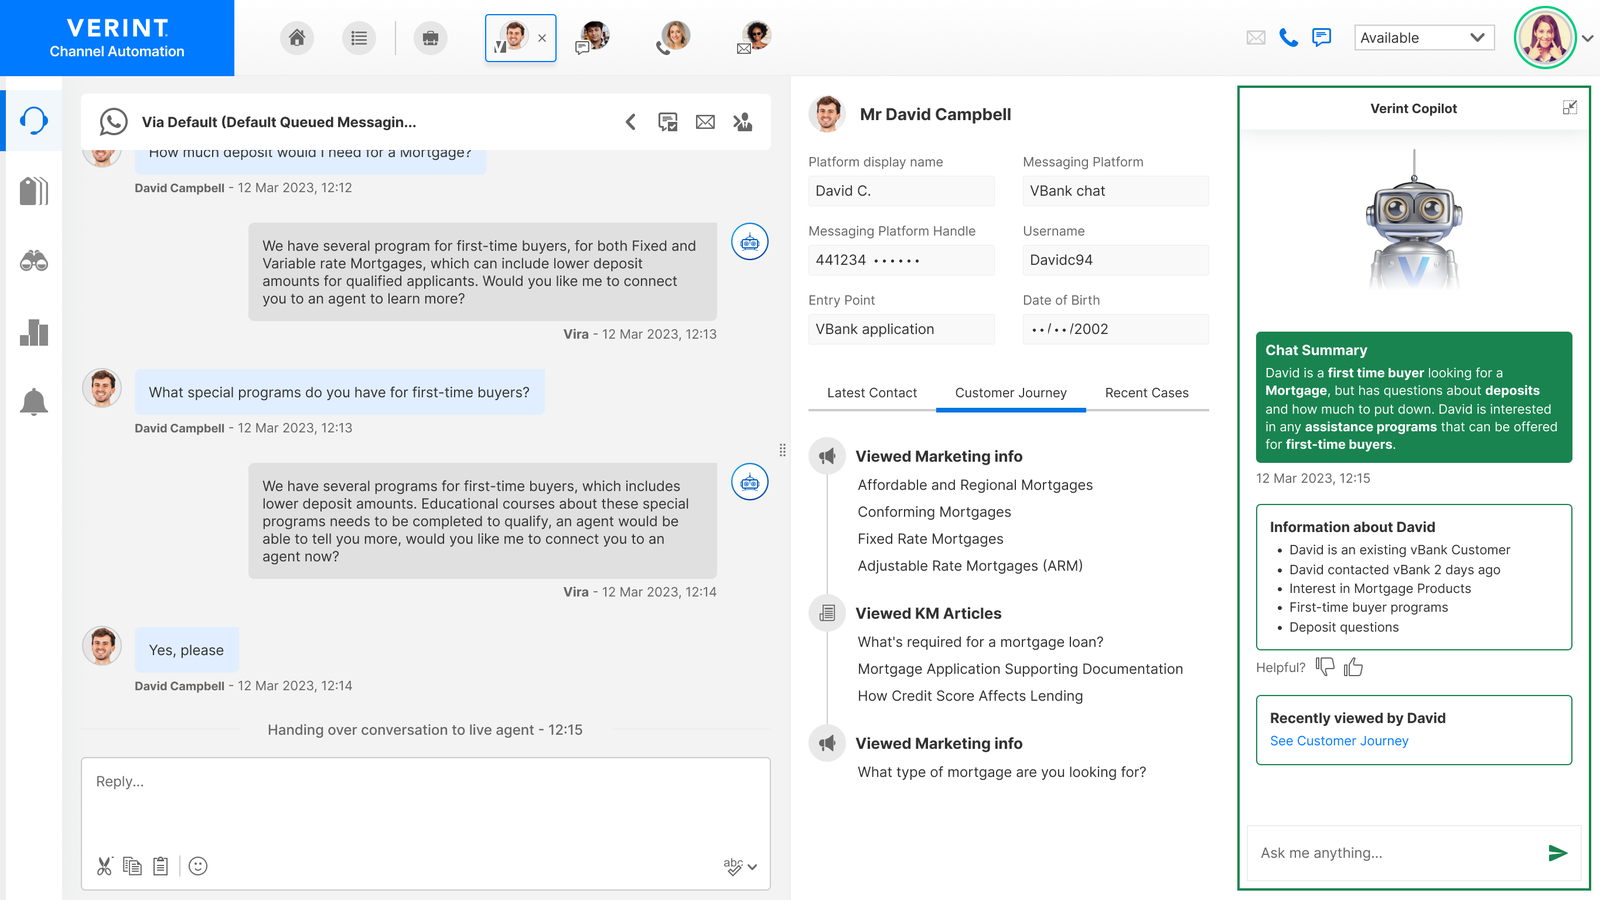
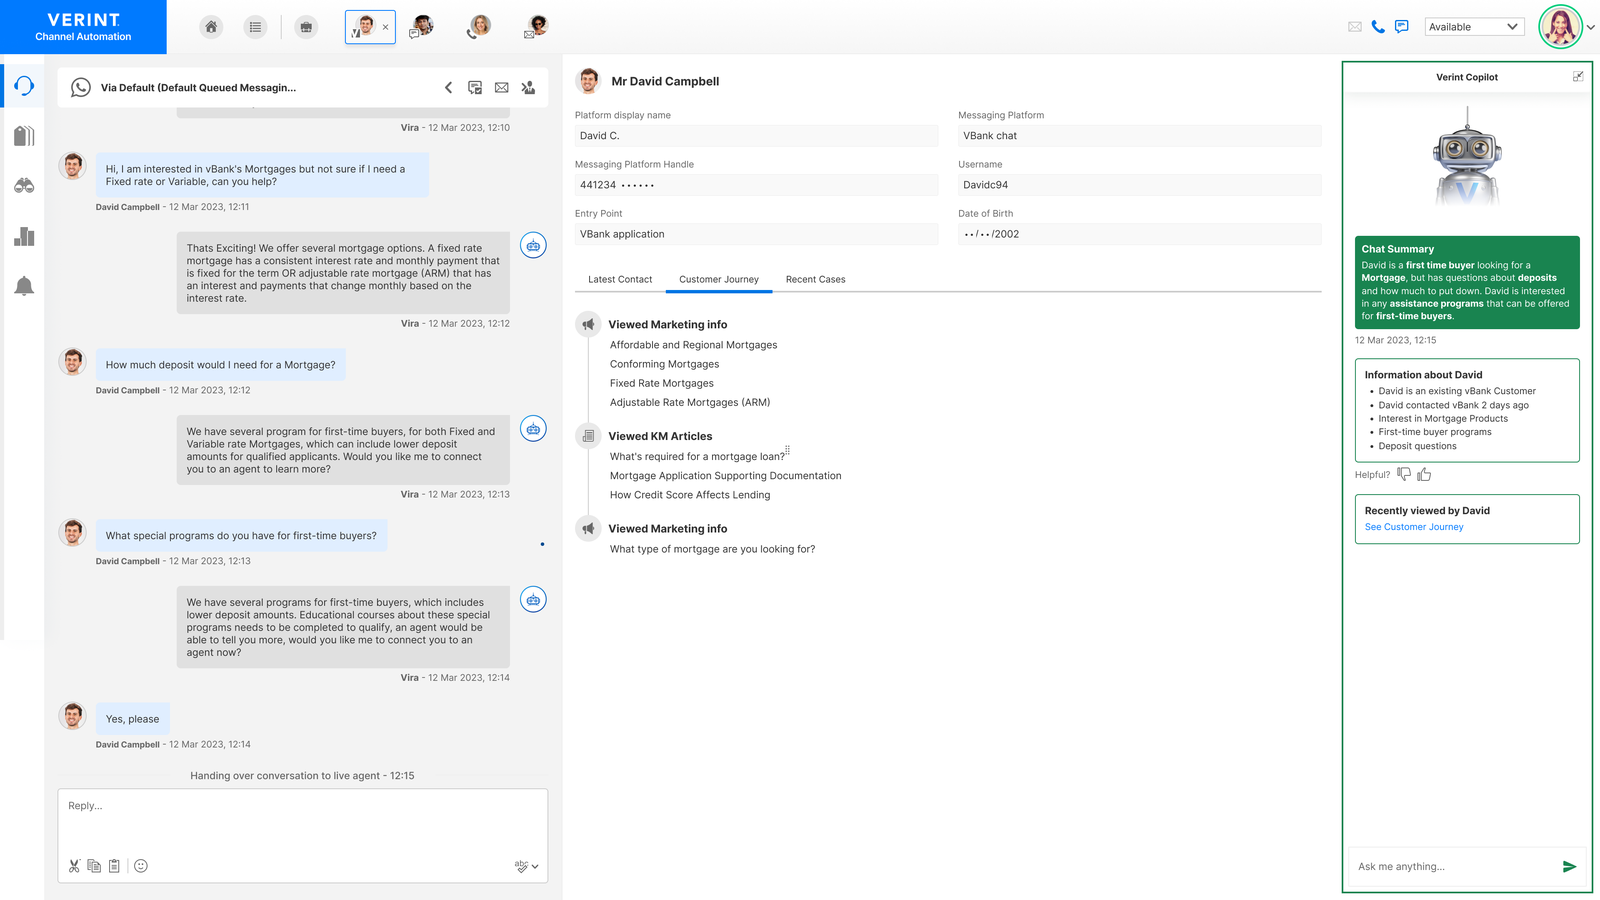
Copilot: Hackathon and Shipped at one scale, 2400px sources, full screen view
Ori re-exported the hackathon screen at the shipped screen's size (3840 vs
3864 wide), so both halves now render the UI at the same scale; before, the
shipped frame was 1932 wide against 1366 and everything on it read ~30%
smaller. Both masked again: handle and date of birth on Hackathon; account
number, phone and the test note under the name on Shipped.

Sources are 16:9 at 1600 and 2400 wide, WebP q82 with a srcset, plus PNG
fallbacks. A retina desktop takes 2400, a phone or 1x laptop 1600.

Full screen: a button in the label row opens the comparison in a native
<dialog> via showModal(). Not a fixed overlay, because the figure sits in a
.cs-reveal section whose transform would trap position:fixed. The .cmp node
is moved into the dialog and back, so there is one copy and the seam keeps
its position. Esc, the close button and a backdrop click all close it;
focus goes to the range on open and back to the button on close; page
scroll is locked while open. The frame is sized by viewport height as well
as width so 16:9 fits whole on a short laptop screen.

Tested at 1440@2x, 1280@1x and 390@3x.

Claude-Session: https://claude.ai/code/session_01UR5wgWCykGrjr29FfUPuRZ

diff --git a/cases/copilot/index.html b/cases/copilot/index.html
@@ -41,8 +41,8 @@
   }
 }
 </script>
-<link rel="stylesheet" href="../../src/tokens.css?v=202609301118"/>
-<link rel="stylesheet" href="../shared/case-study.css?v=202609301118"/>
+<link rel="stylesheet" href="../../src/tokens.css?v=202609301135"/>
+<link rel="stylesheet" href="../shared/case-study.css?v=202609301135"/>
 <script>try{if(localStorage.getItem('ori-theme')==='dark')document.documentElement.setAttribute('data-theme','dark')}catch(e){}
 if(window.self!==window.top){var _s=document.createElement('style');_s.textContent='*{cursor:none!important}';document.head.appendChild(_s);}</script>
 <style>
@@ -68,7 +68,7 @@ if(window.self!==window.top){var _s=document.createElement('style');_s.textConte
 /* ── Hackathon vs shipped seam ────────────────────────────────────────────
    Labels sit in a row above the frame. The stage gets the room; the shared
    .cmp-label keeps its look, only its anchor changes. */
-.cmp-wrapup{--cmp-ar:16/9}  /* both exports cut to 1600x900 */
+.cmp-wrapup{--cmp-ar:16/9}  /* both exports cut to 16:9, 1600 and 2400 wide */
 .cmp-wrapup .cmp-stage{padding-top:30px}
 .cmp-wrapup .cmp-label{top:0}
 .cmp-wrapup .cmp-label-a{left:0}
@@ -77,6 +77,33 @@ if(window.self!==window.top){var _s=document.createElement('style');_s.textConte
    label is 10px uppercase with tracking; sentence case needs neither the
    tracking nor the small size to read as a label. */
 .cmp-wrapup .cmp-label{text-transform:none;letter-spacing:0;font-size:12px;font-weight:700}
+/* Full screen button, centred in the label row so it names neither side. */
+.cmp-expand{position:absolute;top:0;left:50%;transform:translateX(-50%);z-index:2;
+  display:inline-flex;align-items:center;gap:6px;padding:4px 11px;
+  border-radius:var(--radius-full);border:1px solid var(--border-default);
+  background:var(--surface-default);color:var(--text-primary);
+  font-family:inherit;font-size:12px;font-weight:600;line-height:1.3;cursor:pointer}
+.cmp-expand:hover{background:var(--surface-raised)}
+.cmp-expand:focus-visible{outline:3px solid var(--action-primary);outline-offset:2px}
+
+/* The dialog. Sized by the viewport's height as well as its width, so the
+   16:9 frame fits whole on a wide short laptop screen, not just a tall one. */
+.cmp-dlg{border:0;margin:0;padding:64px 24px 24px;background:transparent;
+  width:100vw;height:100vh;height:100dvh;max-width:none;max-height:none;overflow:hidden}
+.cmp-dlg[open]{display:flex;align-items:center;justify-content:center}
+.cmp-dlg::backdrop{background:rgba(10,11,13,.97)}
+html:has(.cmp-dlg[open]){overflow:hidden}
+.cmp-dlg .cmp{width:min(100%, calc((100dvh - 118px) * 16 / 9));margin:0}
+.cmp-dlg .cmp-expand{display:none}
+/* Fixed chrome on a fixed dark backdrop, so fixed colours in both themes. */
+.cmp-dlg .cmp-label{background:#fff;color:#121213}
+.cmp-dlg .cmp-frame{box-shadow:none}
+.cmp-dlg-x{position:fixed;top:14px;right:16px;width:44px;height:44px;border-radius:50%;
+  display:flex;align-items:center;justify-content:center;cursor:pointer;
+  border:1px solid rgba(255,255,255,.4);background:rgba(255,255,255,.12);color:#fff}
+.cmp-dlg-x:hover{background:rgba(255,255,255,.22)}
+.cmp-dlg-x:focus-visible{outline:3px solid #fff;outline-offset:2px}
+@media(max-width:720px){.cmp-dlg{padding:64px 12px 16px}}
 
 /* Inside a section the figure's own 26px is the gap; the seam's 22px on top
    of it would make this the one figure on the page set further off its text. */
@@ -492,11 +519,16 @@ if(window.self!==window.top){var _s=document.createElement('style');_s.textConte
                  UI in every corner, so an on-image label always covers something. -->
             <span class="cmp-label cmp-label-a">Hackathon</span>
             <span class="cmp-label cmp-label-b">Shipped</span>
+            <button type="button" class="cmp-expand" aria-expanded="false" aria-controls="cmp-dlg">
+              <svg viewBox="0 0 24 24" width="13" height="13" fill="none" stroke="currentColor" stroke-width="2.2" stroke-linecap="round" stroke-linejoin="round" aria-hidden="true"><path d="M15 3h6v6M9 21H3v-6M21 3l-7 7M3 21l7-7"/></svg>
+              Full screen
+            </button>
             <div class="cmp-frame">
               <!-- base layer: SHIPPED, full width, sits behind -->
               <div class="cmp-side">
                 <picture>
-                  <source srcset="images/copilot-shipped.webp" type="image/webp"/>
+                  <source type="image/webp" sizes="(max-width:720px) 100vw, 1200px"
+                          srcset="images/copilot-shipped-1600.webp 1600w, images/copilot-shipped-2400.webp 2400w"/>
                   <img src="images/copilot-shipped.png" width="1600" height="900"
                        loading="lazy" decoding="async"
                        alt="Shipped design of the agent desktop: the chat on the left, the customer profile and interaction history in the middle, and the Copilot panel on the right answering the agent's questions in cards, each with sources, a helpful rating and a box to ask more."/>
@@ -505,7 +537,8 @@ if(window.self!==window.top){var _s=document.createElement('style');_s.textConte
               <!-- clipped layer: HACKATHON, occupies the left of the seam -->
               <div class="cmp-side cmp-clip">
                 <picture>
-                  <source srcset="images/copilot-hackathon.webp" type="image/webp"/>
+                  <source type="image/webp" sizes="(max-width:720px) 100vw, 1200px"
+                          srcset="images/copilot-hackathon-1600.webp 1600w, images/copilot-hackathon-2400.webp 2400w"/>
                   <img src="images/copilot-hackathon.png" width="1600" height="900"
                        loading="lazy" decoding="async"
                        alt="Hackathon design of the agent desktop: the chat on the left, customer details in the middle, and a Verint Copilot panel on the right with a robot mascot, a green chat summary card and a list of facts about the customer."/>
@@ -523,8 +556,20 @@ if(window.self!==window.top){var _s=document.createElement('style');_s.textConte
             </div>
           </div>
         </div>
-        <figcaption>From the hackathon to the shipped product. Drag across to see either in full.</figcaption>
+        <figcaption>From the hackathon to the shipped product. Drag across to see either in full, or open it full screen.</figcaption>
       </figure>
+      <!-- Full screen. A native dialog, not a fixed overlay: this sits inside a
+           .cs-reveal section, whose transform makes position:fixed resolve
+           against the section instead of the viewport. showModal() puts the
+           dialog in the top layer, which ignores that, and brings Esc, focus
+           containment and an inert page with it. The comparison itself is
+           moved in and back out, so there is one copy and its seam position
+           survives the round trip. -->
+      <dialog class="cmp-dlg" id="cmp-dlg" aria-label="Hackathon and Shipped, full screen">
+        <button type="button" class="cmp-dlg-x" aria-label="Close full screen">
+          <svg viewBox="0 0 24 24" width="18" height="18" fill="none" stroke="currentColor" stroke-width="2.4" stroke-linecap="round" aria-hidden="true"><path d="M6 6l12 12M18 6L6 18"/></svg>
+        </button>
+      </dialog>
     </div>
 
     <!-- Problem -->
@@ -758,7 +803,30 @@ if(window.self!==window.top){var _s=document.createElement('style');_s.textConte
   </svg>
 </button>
 
-<script src="../shared/case-study.js?v=202609301118" defer></script>
+<script src="../shared/case-study.js?v=202609301135" defer></script>
+<script>
+/* Hackathon and Shipped, full screen. Page-local: only this comparison has it. */
+(function(){
+  var cmp=document.getElementById('cmp-wrapup'), dlg=document.getElementById('cmp-dlg');
+  if(!cmp||!dlg) return;
+  var btn=cmp.querySelector('.cmp-expand');
+  if(typeof dlg.showModal!=='function'){ btn.hidden=true; return; }
+  var home=cmp.parentNode, next=cmp.nextSibling;
+  btn.addEventListener('click', function(){
+    dlg.appendChild(cmp); dlg.showModal();
+    btn.setAttribute('aria-expanded','true');
+    cmp.querySelector('.cmp-input').focus();
+  });
+  dlg.addEventListener('close', function(){
+    home.insertBefore(cmp, next);
+    btn.setAttribute('aria-expanded','false');
+    btn.focus();
+  });
+  dlg.querySelector('.cmp-dlg-x').addEventListener('click', function(){ dlg.close(); });
+  /* A click on the backdrop lands on the dialog itself; one inside it does not. */
+  dlg.addEventListener('click', function(e){ if(e.target===dlg) dlg.close(); });
+})();
+</script>
 <script>
 (function(){
   var stage = document.getElementById('cpStage'),

diff --git a/index.html b/index.html
@@ -417,7 +417,7 @@
     </div>
     <span class="wt">Verint Design System - Case Study</span>
   </div>
-  <iframe class="proj-iframe" allow="fullscreen" src="cases/lux/index.html?v=202609301118" title="Verint Design System 2.0 Case Study" loading="lazy"></iframe>
+  <iframe class="proj-iframe" allow="fullscreen" src="cases/lux/index.html?v=202609301135" title="Verint Design System 2.0 Case Study" loading="lazy"></iframe>
 </div>
 
 <!-- My Verint: case study -->
@@ -429,7 +429,7 @@
     </div>
     <span class="wt">My Verint - Case Study</span>
   </div>
-  <iframe class="proj-iframe" allow="fullscreen" src="cases/myverint/index.html?v=202609301118" title="My Verint Case Study" loading="lazy"></iframe>
+  <iframe class="proj-iframe" allow="fullscreen" src="cases/myverint/index.html?v=202609301135" title="My Verint Case Study" loading="lazy"></iframe>
 </div>
 
 <!-- Verint Copilot: case study -->
@@ -441,7 +441,7 @@
     </div>
     <span class="wt">Agent Copilot - Case Study</span>
   </div>
-  <iframe class="proj-iframe" allow="fullscreen" src="cases/copilot/index.html?v=202609301118" title="Agent Copilot Case Study" loading="lazy"></iframe>
+  <iframe class="proj-iframe" allow="fullscreen" src="cases/copilot/index.html?v=202609301135" title="Agent Copilot Case Study" loading="lazy"></iframe>
 </div>
 
 <!-- LUX Plugins: case study -->
@@ -453,7 +453,7 @@
     </div>
     <span class="wt">LUX Plugins - Case Study</span>
   </div>
-  <iframe class="proj-iframe" allow="fullscreen" src="cases/plugins/index.html?v=202609301118" title="LUX Plugins Case Study" loading="lazy"></iframe>
+  <iframe class="proj-iframe" allow="fullscreen" src="cases/plugins/index.html?v=202609301135" title="LUX Plugins Case Study" loading="lazy"></iframe>
 </div>
 
 <!-- Supervisor Hub: placeholder -->
@@ -832,7 +832,7 @@
     <span class="wt">Verint Design System - Component Viewer</span>
     <div class="wrc"></div>
   </div>
-  <iframe class="proj-iframe" allow="fullscreen" src="cases/lux/viewer.html?v=202609301118" title="Verint Design System Component Viewer" loading="lazy"></iframe>
+  <iframe class="proj-iframe" allow="fullscreen" src="cases/lux/viewer.html?v=202609301135" title="Verint Design System Component Viewer" loading="lazy"></iframe>
 </div>
 
 <!-- ══════════ APP SHELL ══════════ -->

diff --git a/cases/lux/index.html b/cases/lux/index.html
@@ -18,8 +18,8 @@
 <meta name="twitter:description" content="How Ori Cohen built Verint's enterprise design system from scratch — one language for 40+ products and 10k+ users."/>
 <meta name="twitter:image" content="https://oricohen.co/cases/lux/images/og-image.png"/>
 <meta name="author" content="Ori Cohen"/>
-<link rel="stylesheet" href="../../src/tokens.css?v=202609301118"/>
-<link rel="stylesheet" href="../shared/case-study.css?v=202609301118"/>
+<link rel="stylesheet" href="../../src/tokens.css?v=202609301135"/>
+<link rel="stylesheet" href="../shared/case-study.css?v=202609301135"/>
 <!-- Hide default cursor when embedded in the portfolio iframe -->
 <script>try{if(localStorage.getItem('ori-theme')==='dark')document.documentElement.setAttribute('data-theme','dark')}catch(e){}
 if(window.self!==window.top){var _s=document.createElement('style');_s.textContent='*{cursor:none!important}';document.head.appendChild(_s);}</script>
@@ -767,7 +767,7 @@ if(window.self!==window.top){var _s=document.createElement('style');_s.textConte
       <figure class="cs-media">
       <!-- The variables browser. Replaces the component-library screenshot:
            the same claim, but checkable. -->
-      <div class="vb-shell" data-dv="202609301118">
+      <div class="vb-shell" data-dv="202609301135">
         <div class="vb" id="vb" role="group"
              aria-label="LUX 2.0 variable library, browsable">
           <div class="vb-side">
@@ -999,7 +999,7 @@ if(window.self!==window.top){var _s=document.createElement('style');_s.textConte
   </svg>
 </button>
 
-<script src="../shared/case-study.js?v=202609301118" defer></script>
+<script src="../shared/case-study.js?v=202609301135" defer></script>
 <script>
 /* The seam itself is driven by cases/shared/case-study.js, which wires every
    .cmp on the page. What is left here is the token hotspots, which are

diff --git a/cases/myverint/index.html b/cases/myverint/index.html
@@ -18,8 +18,8 @@
 <meta name="author" content="Ori Cohen"/>
 <meta name="twitter:title" content="My Verint - Case Study - Ori Cohen"/>
 <meta name="twitter:description" content="How Ori Cohen redesigned My Verint - merging two disconnected mobile apps into a unified, AI-powered experience for 10,000+ contact center employees."/>
-<link rel="stylesheet" href="../../src/tokens.css?v=202609301118"/>
-<link rel="stylesheet" href="../shared/case-study.css?v=202609301118"/>
+<link rel="stylesheet" href="../../src/tokens.css?v=202609301135"/>
+<link rel="stylesheet" href="../shared/case-study.css?v=202609301135"/>
 <script>try{if(localStorage.getItem('ori-theme')==='dark')document.documentElement.setAttribute('data-theme','dark')}catch(e){}
 if(window.self!==window.top){var _s=document.createElement('style');_s.textContent='*{cursor:none!important}';document.head.appendChild(_s);}</script>
 <style>
@@ -537,7 +537,7 @@ if(window.self!==window.top){var _s=document.createElement('style');_s.textConte
   </svg>
 </button>
 
-<script src="../shared/case-study.js?v=202609301118" defer></script>
+<script src="../shared/case-study.js?v=202609301135" defer></script>
 <script>
 /* "The Design" tabs - opacity crossfade only.
    Adopted from the original implementation: every video runs continuously

diff --git a/cases/plugins/index.html b/cases/plugins/index.html
@@ -41,8 +41,8 @@
   }
 }
 </script>
-<link rel="stylesheet" href="../../src/tokens.css?v=202609301118"/>
-<link rel="stylesheet" href="../shared/case-study.css?v=202609301118"/>
+<link rel="stylesheet" href="../../src/tokens.css?v=202609301135"/>
+<link rel="stylesheet" href="../shared/case-study.css?v=202609301135"/>
 <script>try{if(localStorage.getItem('ori-theme')==='dark')document.documentElement.setAttribute('data-theme','dark')}catch(e){}
 if(window.self!==window.top){var _s=document.createElement('style');_s.textContent='*{cursor:none!important}';document.head.appendChild(_s);}</script>
 <style>
@@ -588,7 +588,7 @@ if(window.self!==window.top){var _s=document.createElement('style');_s.textConte
   </svg>
 </button>
 
-<script src="../shared/case-study.js?v=202609301118" defer></script>
+<script src="../shared/case-study.js?v=202609301135" defer></script>
 
 <script>
 /* ══ The reel ═══════════════════════════════════════════════════════════════

diff --git a/cases/agent-factory/index.html b/cases/agent-factory/index.html
@@ -14,8 +14,8 @@
 <meta property="og:url" content="https://oricohen.co/cases/agent-factory/"/>
 <meta property="og:image" content="https://oricohen.co/cases/agent-factory/images/og-image.jpg"/>
 <meta name="twitter:card" content="summary_large_image"/>
-<link rel="stylesheet" href="../../src/tokens.css?v=202609301118"/>
-<link rel="stylesheet" href="../shared/case-study.css?v=202609301118"/>
+<link rel="stylesheet" href="../../src/tokens.css?v=202609301135"/>
+<link rel="stylesheet" href="../shared/case-study.css?v=202609301135"/>
 <script>if(window.self!==window.top){var _s=document.createElement('style');_s.textContent='*{cursor:none!important}';document.head.appendChild(_s);}</script>
 <style>
 /* -- Project accent: Agent Factory = Verint blue ------------------------- */
@@ -118,6 +118,6 @@
   </main><!-- /cs-content -->
 </div><!-- /cs-body -->
 
-<script src="../shared/case-study.js?v=202609301118"></script>
+<script src="../shared/case-study.js?v=202609301135"></script>
 </body>
 </html>
